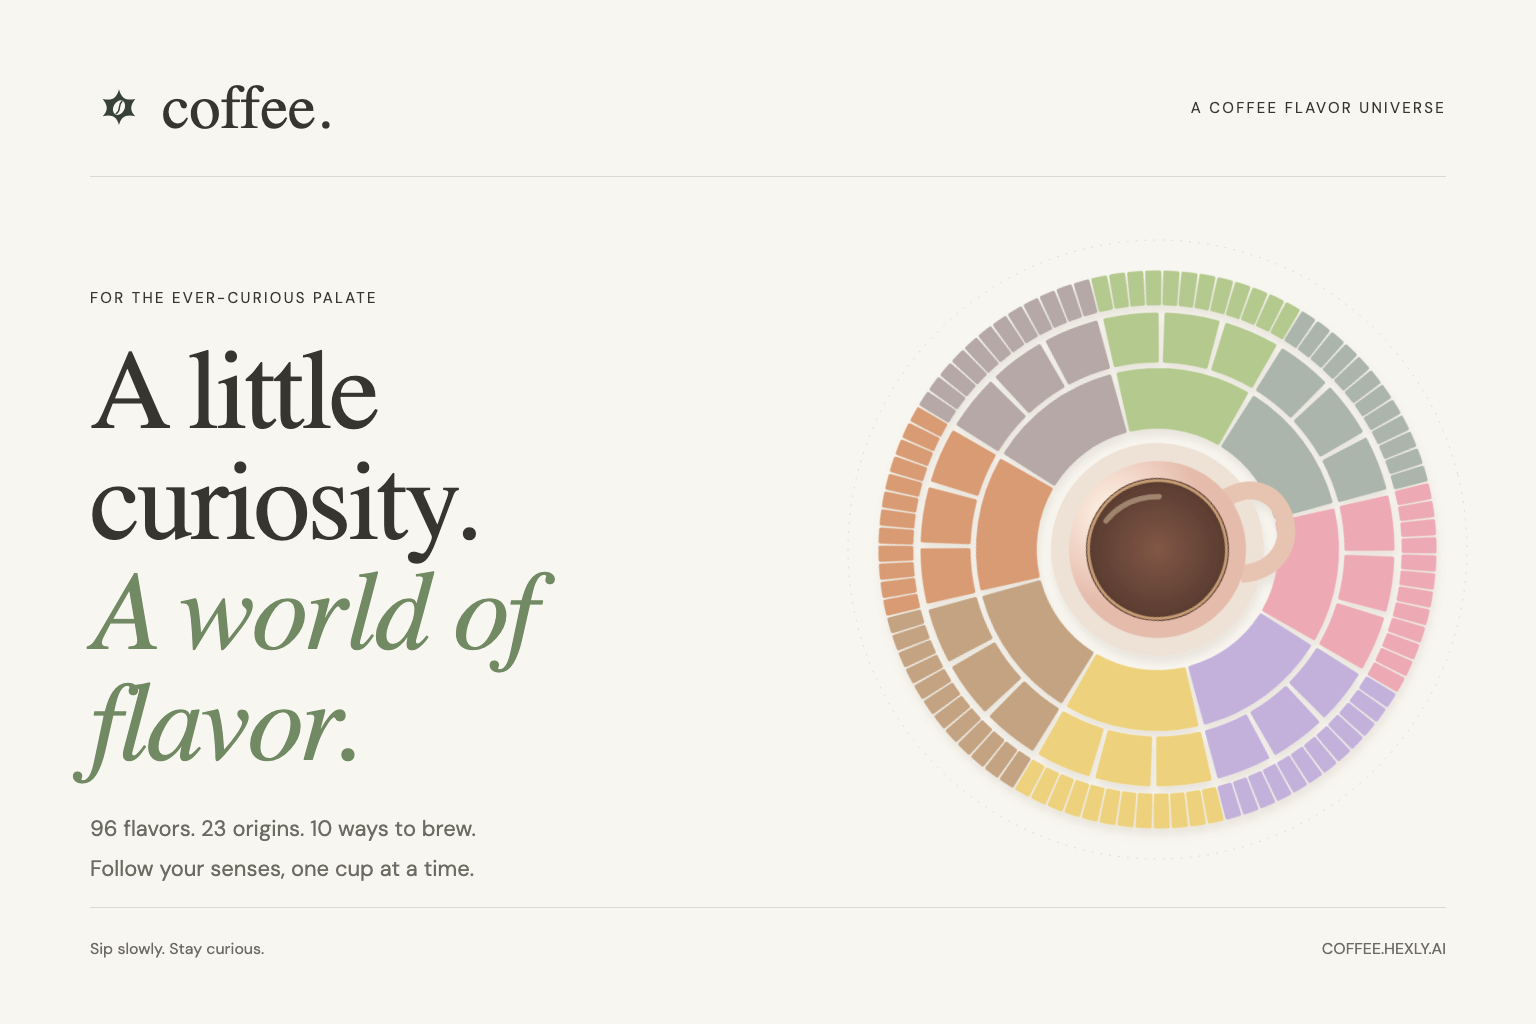
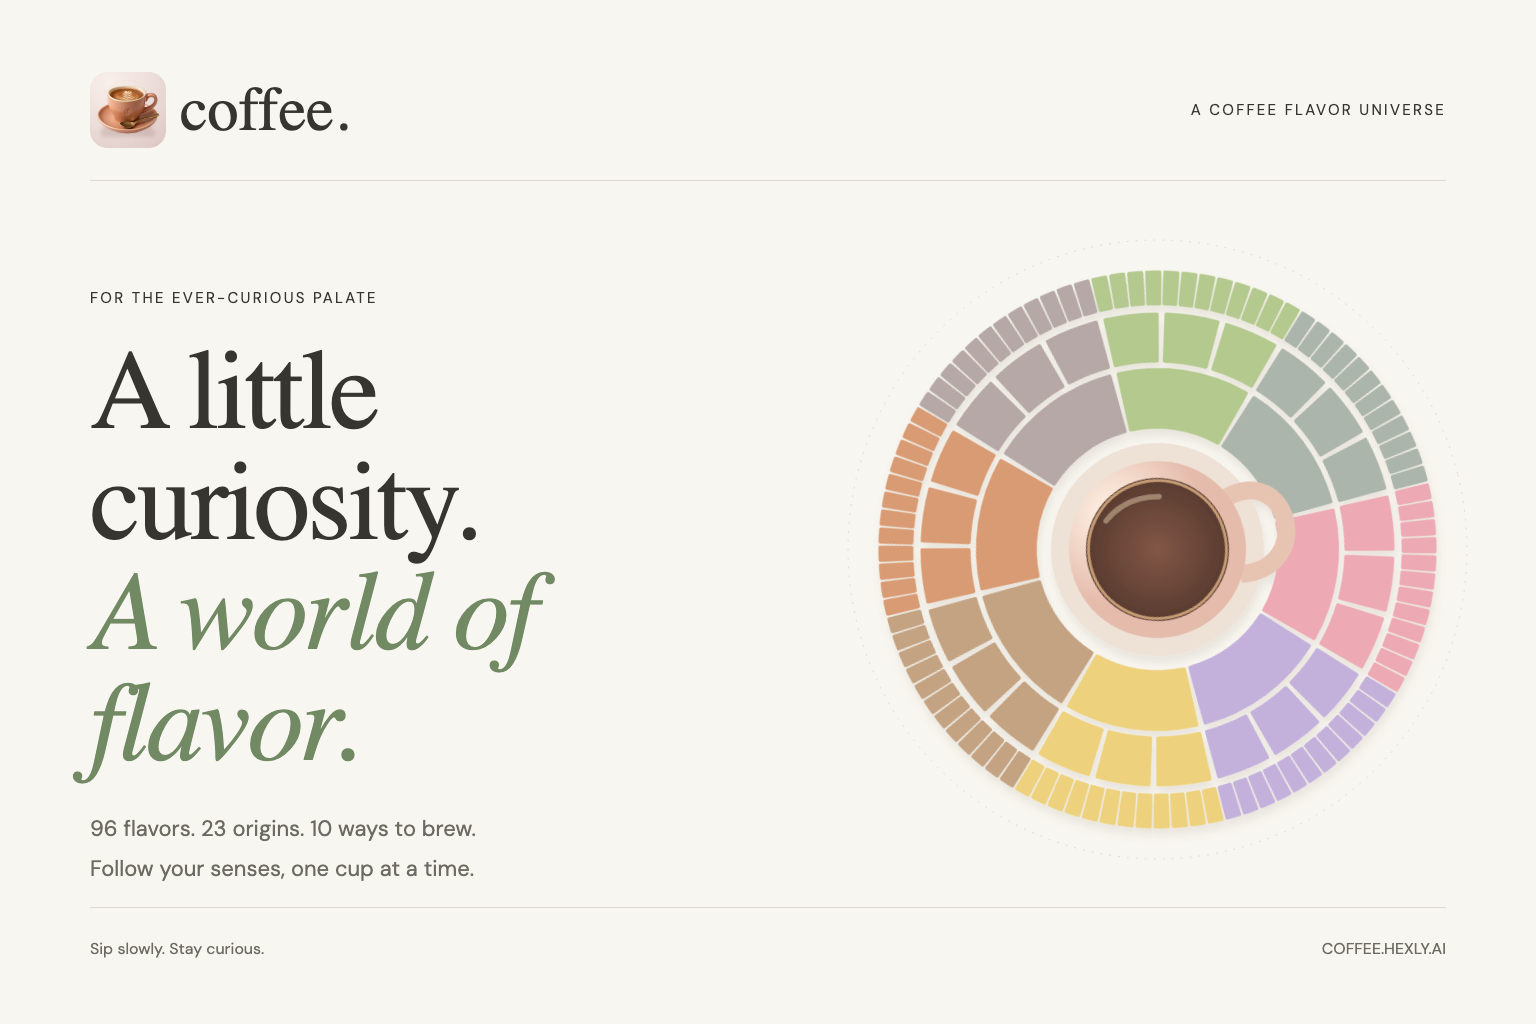
feat(brand): adopt approved ceramic coffee identity

Changed region(s): [[0.0625, 0.0625, 0.2188, 0.1562], [0.7812, 0.0938, 0.9375, 0.125]]

diff --git a/public/404.html b/public/404.html
@@ -1,2 +1,2 @@
 <!doctype html>
-<html lang="zh-CN"><head><meta charset="UTF-8"><meta name="viewport" content="width=device-width,initial-scale=1"><meta name="robots" content="noindex"><link rel="icon" href="/favicon.svg"><title>404 · coffee</title><style>body{margin:0;background:#f8f6f0;color:#36352f;font-family:system-ui;min-height:100vh;display:grid;place-items:center}main{padding:30px;text-align:center;max-width:600px}h1{font-family:Georgia,serif;font-size:110px;font-weight:400;margin:0}p{line-height:1.9}a{display:inline-block;padding:13px 24px;background:#36352f;color:#f8f6f0;border-radius:30px;margin-top:20px;text-decoration:none}</style></head><body><main><h1>404 ✧</h1><p>这一颗星，还没被发现。<br>This little world is still uncharted.</p><a href="/">回到风味宇宙 · Back to coffee</a></main></body></html>
+<html lang="zh-CN"><head><meta charset="UTF-8"><meta name="viewport" content="width=device-width,initial-scale=1"><meta name="robots" content="noindex"><link rel="icon" type="image/png" sizes="32x32" href="/favicon.png"><title>404 · coffee</title><style>body{margin:0;background:#f8f6f0;color:#36352f;font-family:system-ui;min-height:100vh;display:grid;place-items:center}main{padding:30px;text-align:center;max-width:600px}h1{font-family:Georgia,serif;font-size:110px;font-weight:400;margin:0}p{line-height:1.9}a{display:inline-block;padding:13px 24px;background:#36352f;color:#f8f6f0;border-radius:30px;margin-top:20px;text-decoration:none}</style></head><body><main><h1>404 ✧</h1><p>这一颗星，还没被发现。<br>This little world is still uncharted.</p><a href="/">回到风味宇宙 · Back to coffee</a></main></body></html>

diff --git a/src/components/shared.tsx b/src/components/shared.tsx
@@ -7,14 +7,7 @@ import { useCoffee } from '../lib/context';
 export function Logo({ small = false }: { small?: boolean }) {
   return (
     <span className={`brand ${small ? 'brand-small' : ''}`}>
-      <svg width="38" height="38" viewBox="0 0 40 40" fill="none" aria-hidden="true">
-        <path
-          d="M20 4C22 12 26 15 35 13C30 19 30 24 35 29C27 27 22 29 20 37C18 29 13 27 5 29C10 24 10 19 5 13C14 15 18 12 20 4Z"
-          fill="currentColor"
-        />
-        <ellipse cx="20" cy="21" rx="5.1" ry="7.1" fill="var(--bg)" transform="rotate(28 20 21)" />
-        <path d="M23 15C18 19 23 23 17 27" stroke="currentColor" strokeWidth="1.4" />
-      </svg>
+      <img className="brand-mark" src="/logo-80.png" width="38" height="38" alt="" />
       <span>
         coffee<span className="brand-period">.</span>
       </span>

diff --git a/index.html b/index.html
@@ -24,7 +24,8 @@
     <meta name="twitter:title" content="coffee · A world of flavor" />
     <meta name="twitter:description" content="A bilingual coffee flavor universe. Sip slowly. Stay curious." />
     <meta name="twitter:image" content="https://coffee.hexly.ai/og.png" />
-    <link rel="icon" type="image/svg+xml" href="/favicon.svg" />
+    <link rel="icon" type="image/png" sizes="16x16" href="/favicon-16.png" />
+    <link rel="icon" type="image/png" sizes="32x32" href="/favicon.png" />
     <link rel="apple-touch-icon" href="/icon-192.png" />
     <link rel="manifest" href="/manifest.webmanifest" />
     <link rel="preload" href="/fonts/dm-sans-latin.woff2" as="font" type="font/woff2" crossorigin />

diff --git a/src/styles.css b/src/styles.css
@@ -253,7 +253,7 @@ input[type="search"]::-webkit-search-cancel-button {
   font-size: 28px;
   gap: 6px;
 }
-.brand-small svg {
+.brand-small .brand-mark {
   width: 30px;
   height: 30px;
 }
@@ -1704,7 +1704,7 @@ input[type="search"]::-webkit-search-cancel-button {
   .brand {
     font-size: 31px;
   }
-  .brand svg {
+  .brand .brand-mark {
     width: 33px;
     height: 33px;
   }
@@ -1880,7 +1880,7 @@ input[type="search"]::-webkit-search-cancel-button {
   .brand {
     font-size: 30px;
   }
-  .brand svg {
+  .brand .brand-mark {
     width: 30px;
     height: 30px;
   }

diff --git a/assets/brand/README.md b/assets/brand/README.md
@@ -1,0 +1,23 @@
+# Coffee identity
+
+The owner approved the native peach ceramic cup, latte leaf, saucer and brass teaspoon on September 11, 2026. The independent rose/oat paper presentation uses broken cupping rings and short tasting spokes. Study `coffee/2026-09-11-01`, finishing `01`, is preserved in the sibling Hexly artwork archive, including the original icon, exact prompt, raw decision, extraction and all ten export sizes.
+
+| File or consumer | Role |
+| --- | --- |
+| `../../logo.png` | Canonical 2048 px transparent master, exact selected bytes |
+| `icon.png` | Square 2048 px presentation master |
+| `icon-rounded.png` | Rounded 2048 px presentation; both README headers and the social header |
+| `background.png` | Independent 2048 px paper field for the maskable platform derivative |
+| `../../public/logo-80.png` | Transparent application mark used by the shared `Logo` component in the responsive header, footer, loading view and exhibition |
+| `../../public/favicon-16.png`, `../../public/favicon.png` | Transparent browser icons at 16 and 32 px; the 404 page uses the 32 px asset |
+| `../../public/icon-192.png`, `../../public/icon-512.png` | Square presentation for Apple touch and ordinary PWA icons |
+| `../../public/icon-maskable-512.png` | Separate square PWA source: full paper background, the complete foreground uniformly placed at 94%, and an independent soft shadow |
+| `../../public/og.png` | Existing 1536 × 1024 flavor-wheel social composition with the selected rounded mark |
+
+Run `bun run assets:render` to regenerate the actual consumers with the existing Playwright renderer. Browser and application marks retain alpha and have no tile, CSS background or corner crop. At 16 px, the cup and handle silhouette carry recognition; the latte leaf and incised bean merge.
+
+The standard foreground's farthest visible pixel is 856.84 px from the center of its 2048 px canvas. The maskable placement reduces this to 805.43 px, inside the 819.2 px safe radius. The platform background remains full bleed; a PWA mask may trim decorative paper and shadow outside that safe circle.
+
+Native material samples, source hashes and the selected placement are recorded in Hexly's `palette.json` and finishing manifest. Exact master dimensions and checksums are in [source.json](source.json). Existing application theme tokens remain primary `#c7d9a9`, background `#f8f6f0`, and ink `#36352f`; the artwork does not redefine them.
+
+Review: [Coffee identity](https://index.dev.hexly.ai/logos/coffee) and the local static study at `artwork/logo-family/coffee/2026-09-11-01/review.html`. This adoption is local; it does not establish a push or deployment.

diff --git a/docs/README.en.md b/docs/README.en.md
@@ -1,5 +1,5 @@
 <p align="center">
-  <img src="../public/icon-512.png" width="128" alt="Coffee logo" />
+  <img src="../assets/brand/icon-rounded.png" width="128" alt="Coffee logo" />
 </p>
 <h1 align="center">coffee · A coffee flavor universe</h1>
 <p align="center">Explore coffee flavors, origins and brewing methods, then record what you taste.</p>

diff --git a/README.md b/README.md
@@ -1,5 +1,5 @@
 <p align="center">
-  <img src="public/icon-512.png" width="128" alt="Coffee logo" />
+  <img src="assets/brand/icon-rounded.png" width="128" alt="Coffee logo" />
 </p>
 <h1 align="center">coffee · 咖啡风味宇宙</h1>
 <p align="center">探索咖啡风味、产地与冲煮方法，记录自己的品鉴体验。</p>
